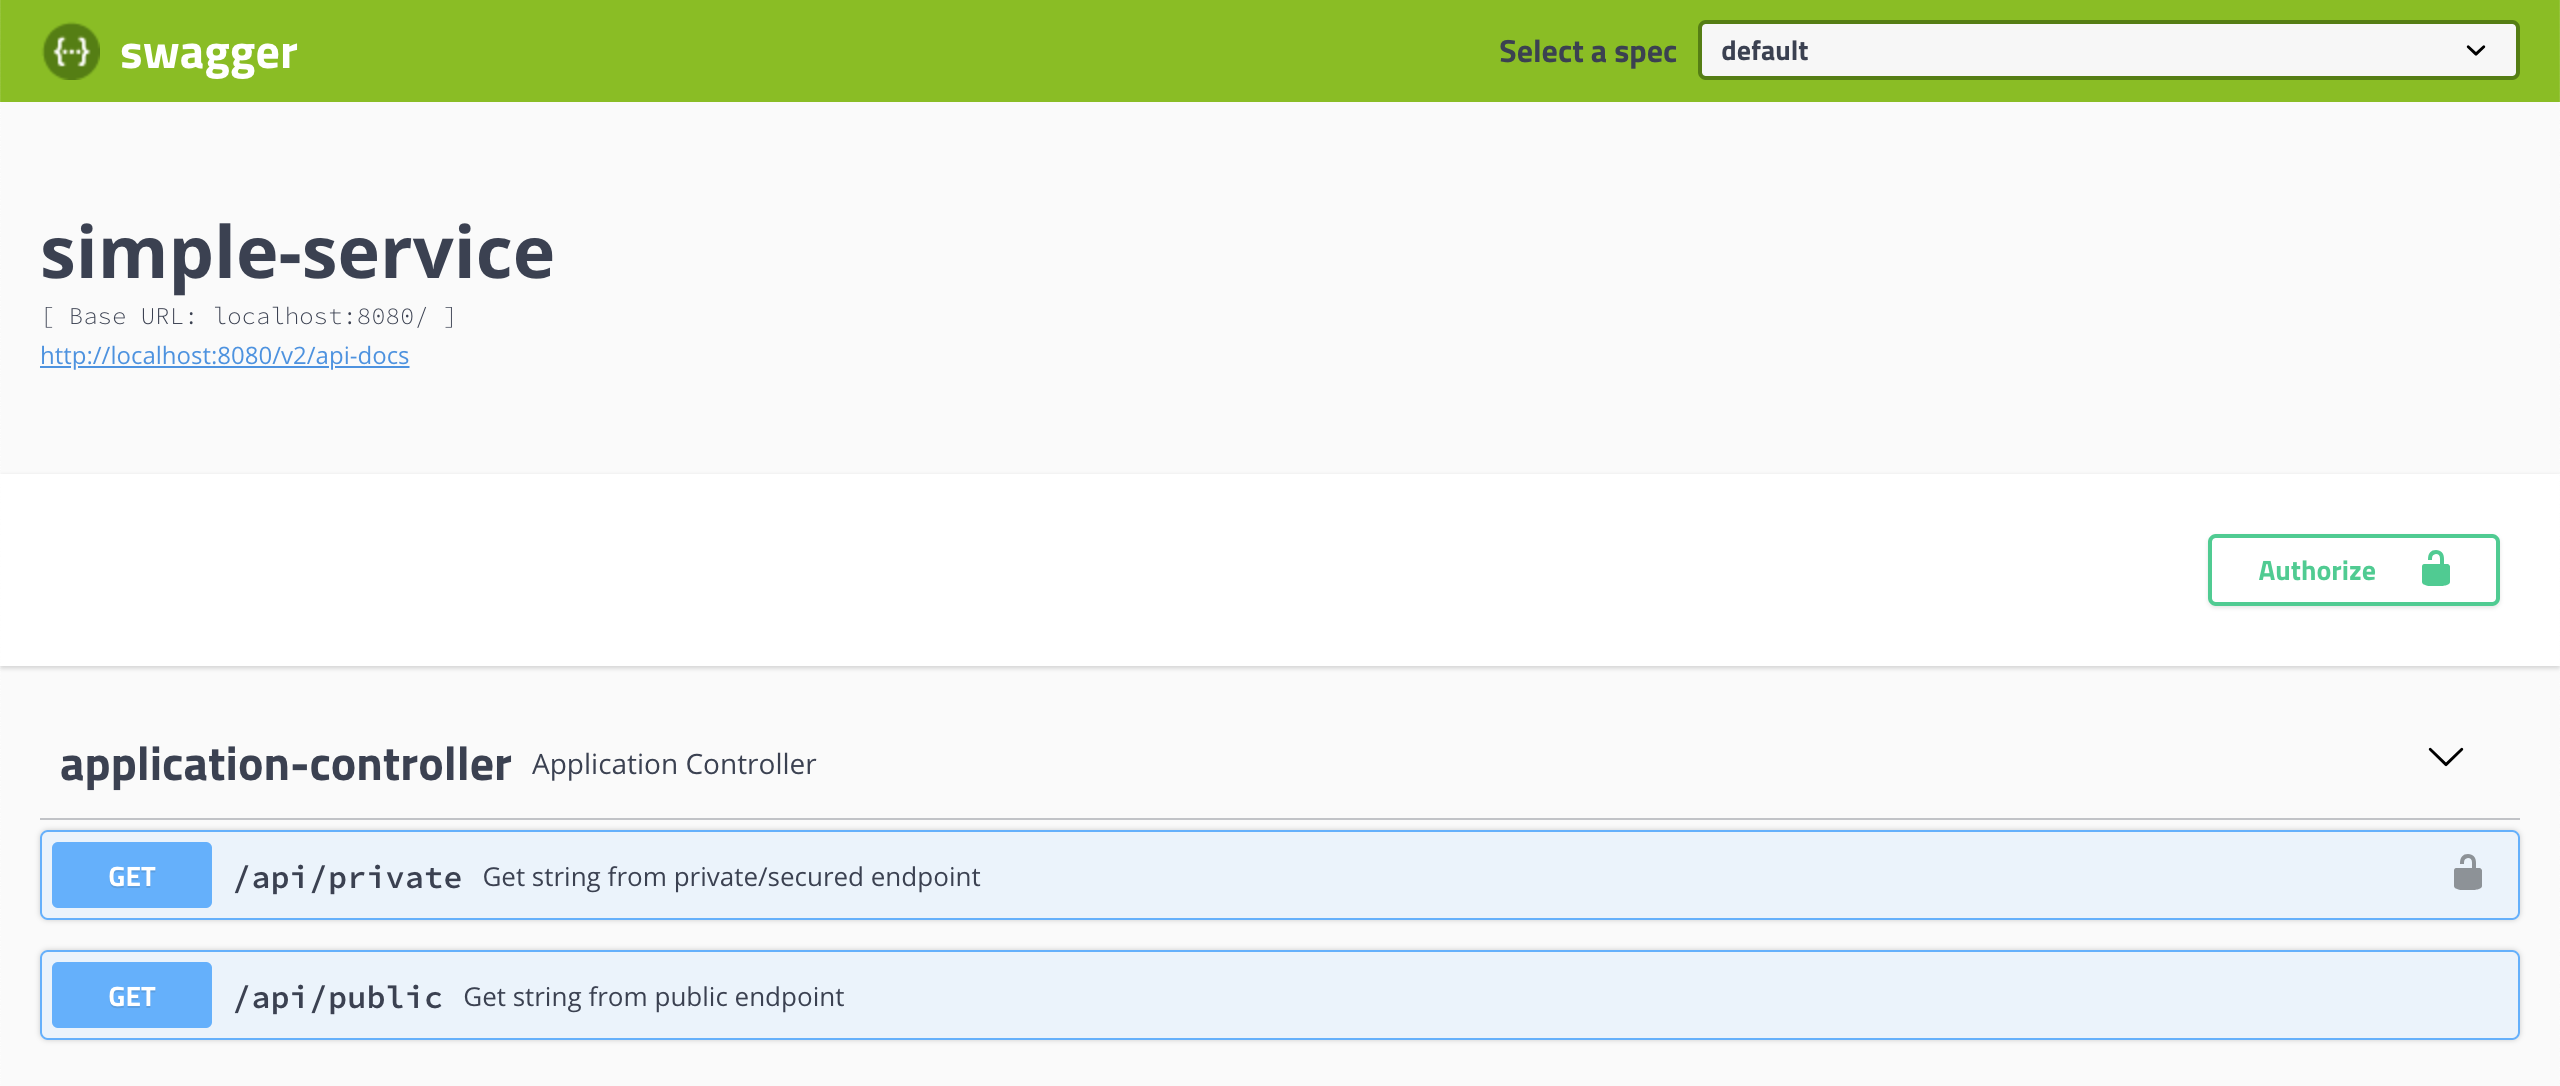
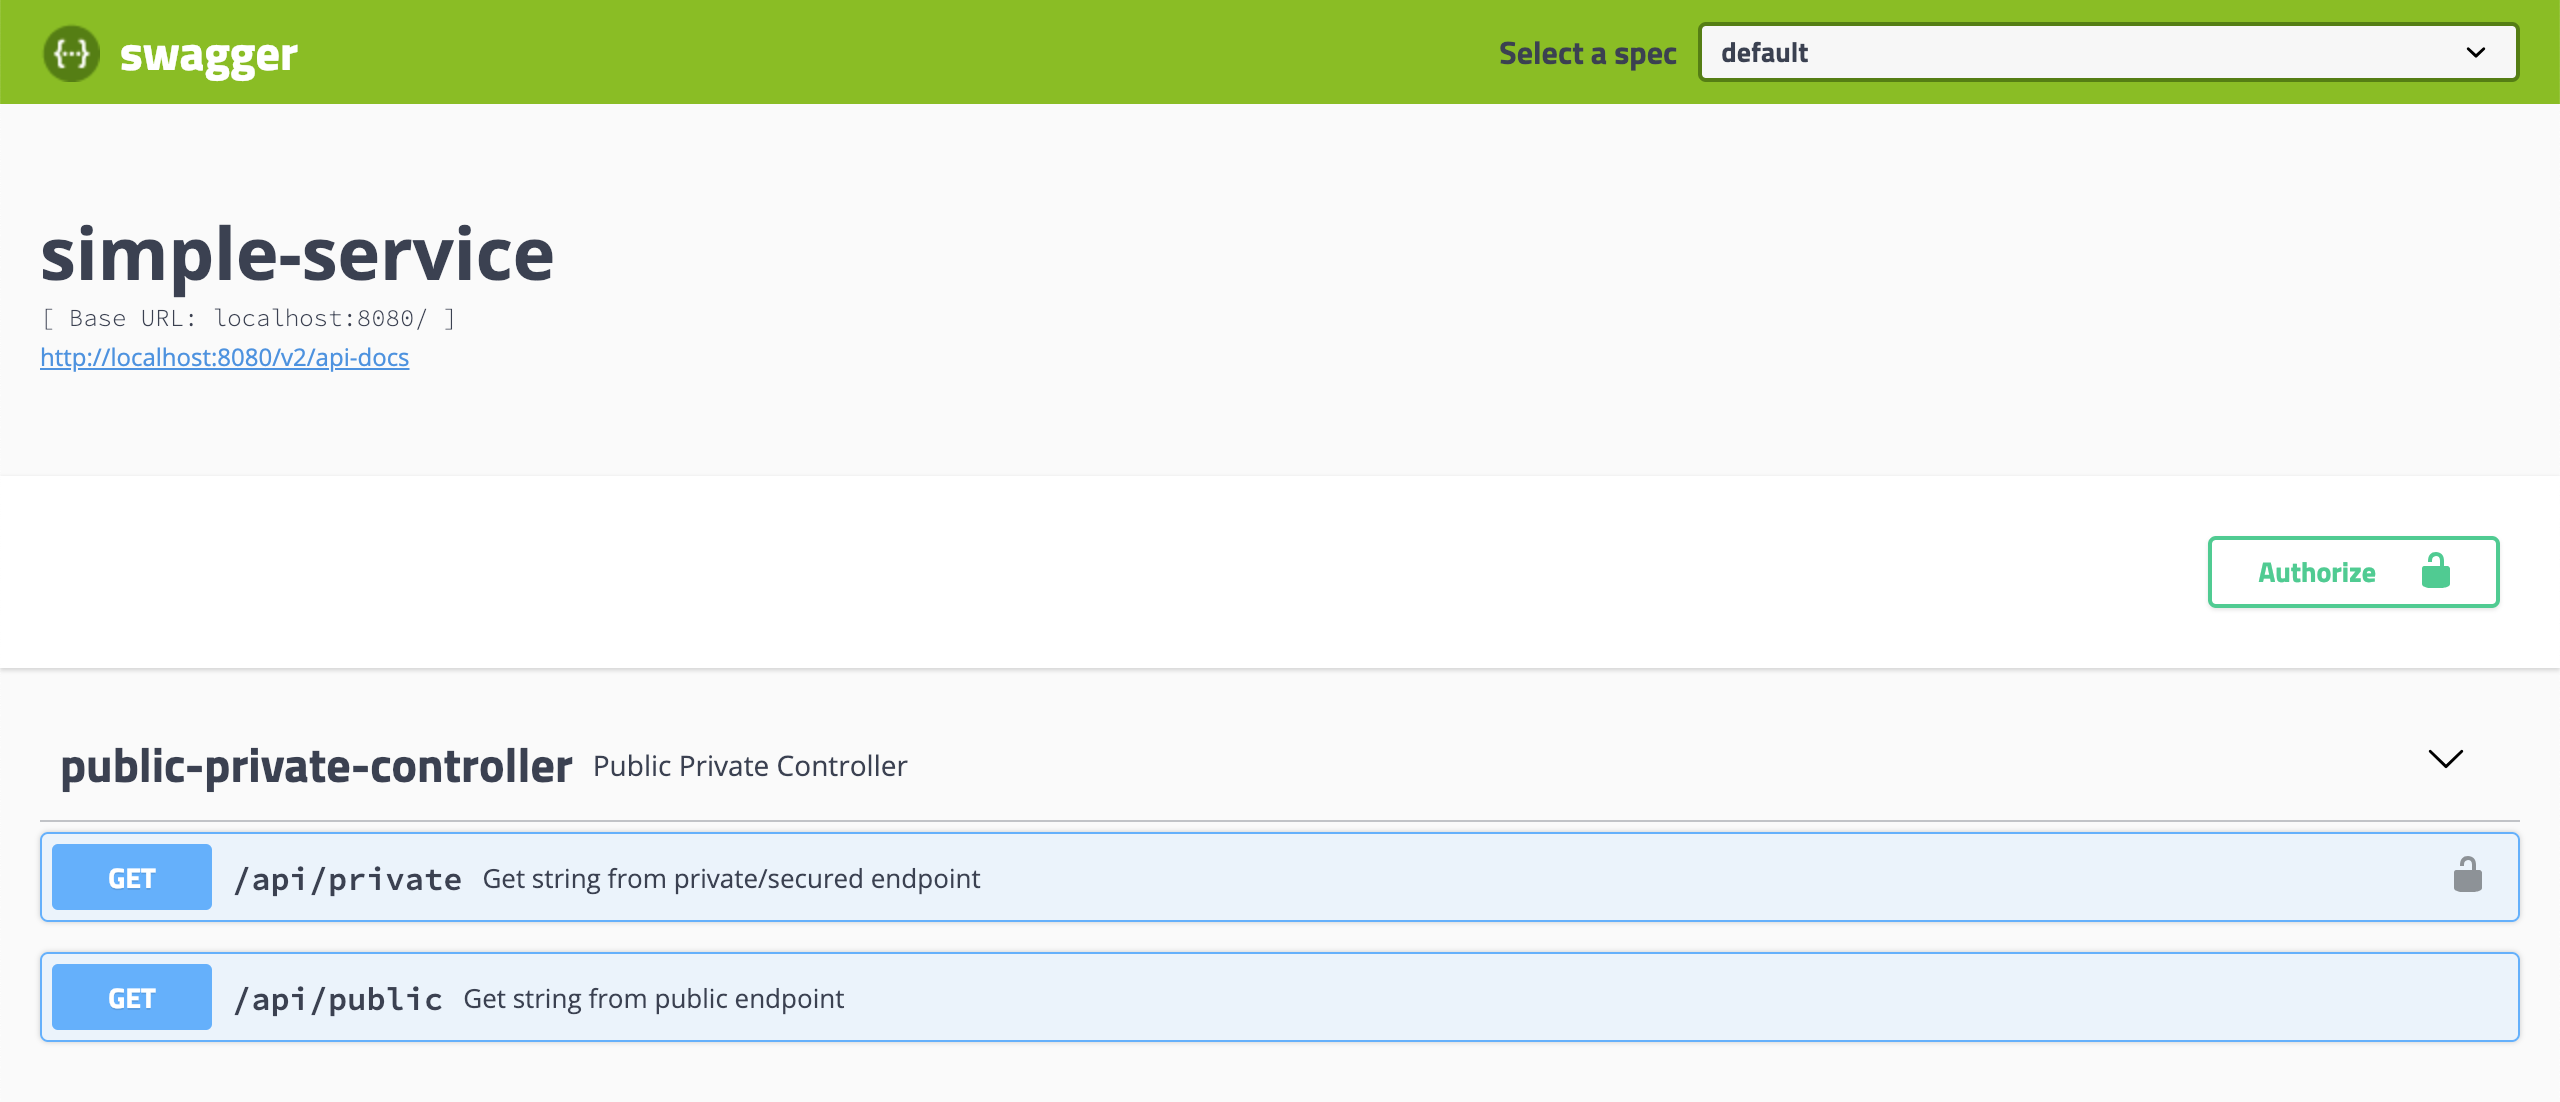
changes: - rename controller class name; - update swagger.png and README.

diff --git a/src/main/java/com/mycompany/simpleservice/controller/PublicPrivateController.java b/src/main/java/com/mycompany/simpleservice/controller/PublicPrivateController.java
@@ -13,7 +13,7 @@ import java.security.Principal;
 
 @RestController
 @RequestMapping("/api")
-public class ApplicationController {
+public class PublicPrivateController {
 
     @ApiOperation(value = "Get string from public endpoint")
     @ApiResponses(value = {

diff --git a/README.md b/README.md
@@ -328,4 +328,4 @@ Response Body:
 ### jwt.io
 
 With [jwt.io](https://jwt.io) you can inform the JWT token you have received from Keycloak and the online tool decodes
-the token, showing the header and payload of the token.
+the token, showing its header and payload.
